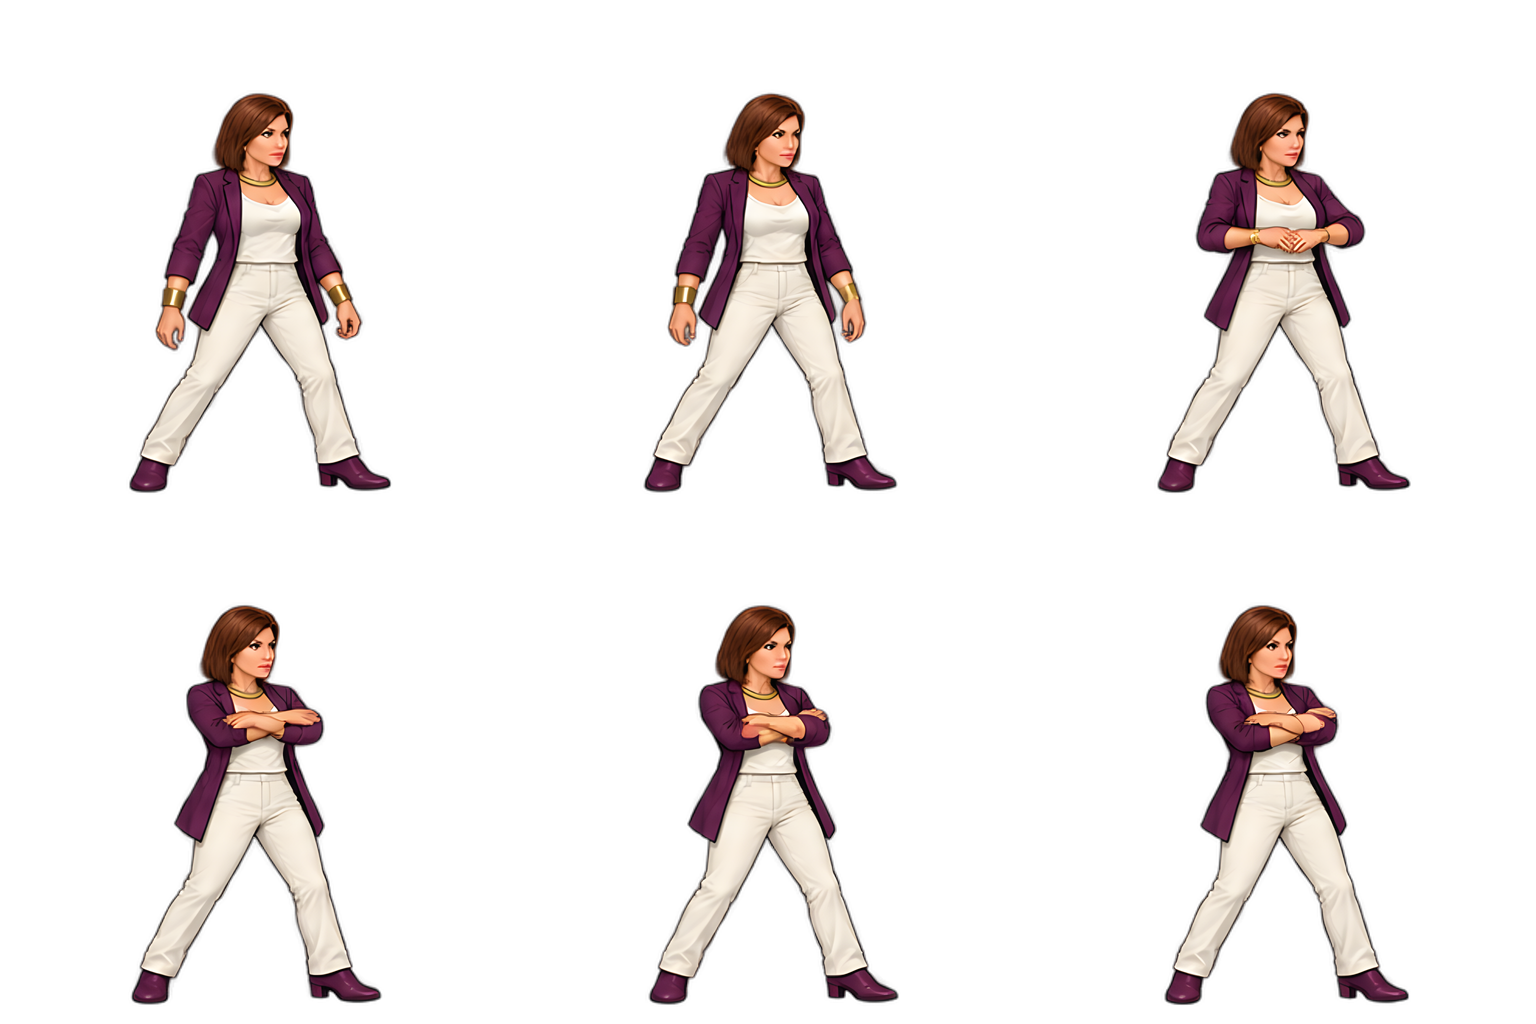
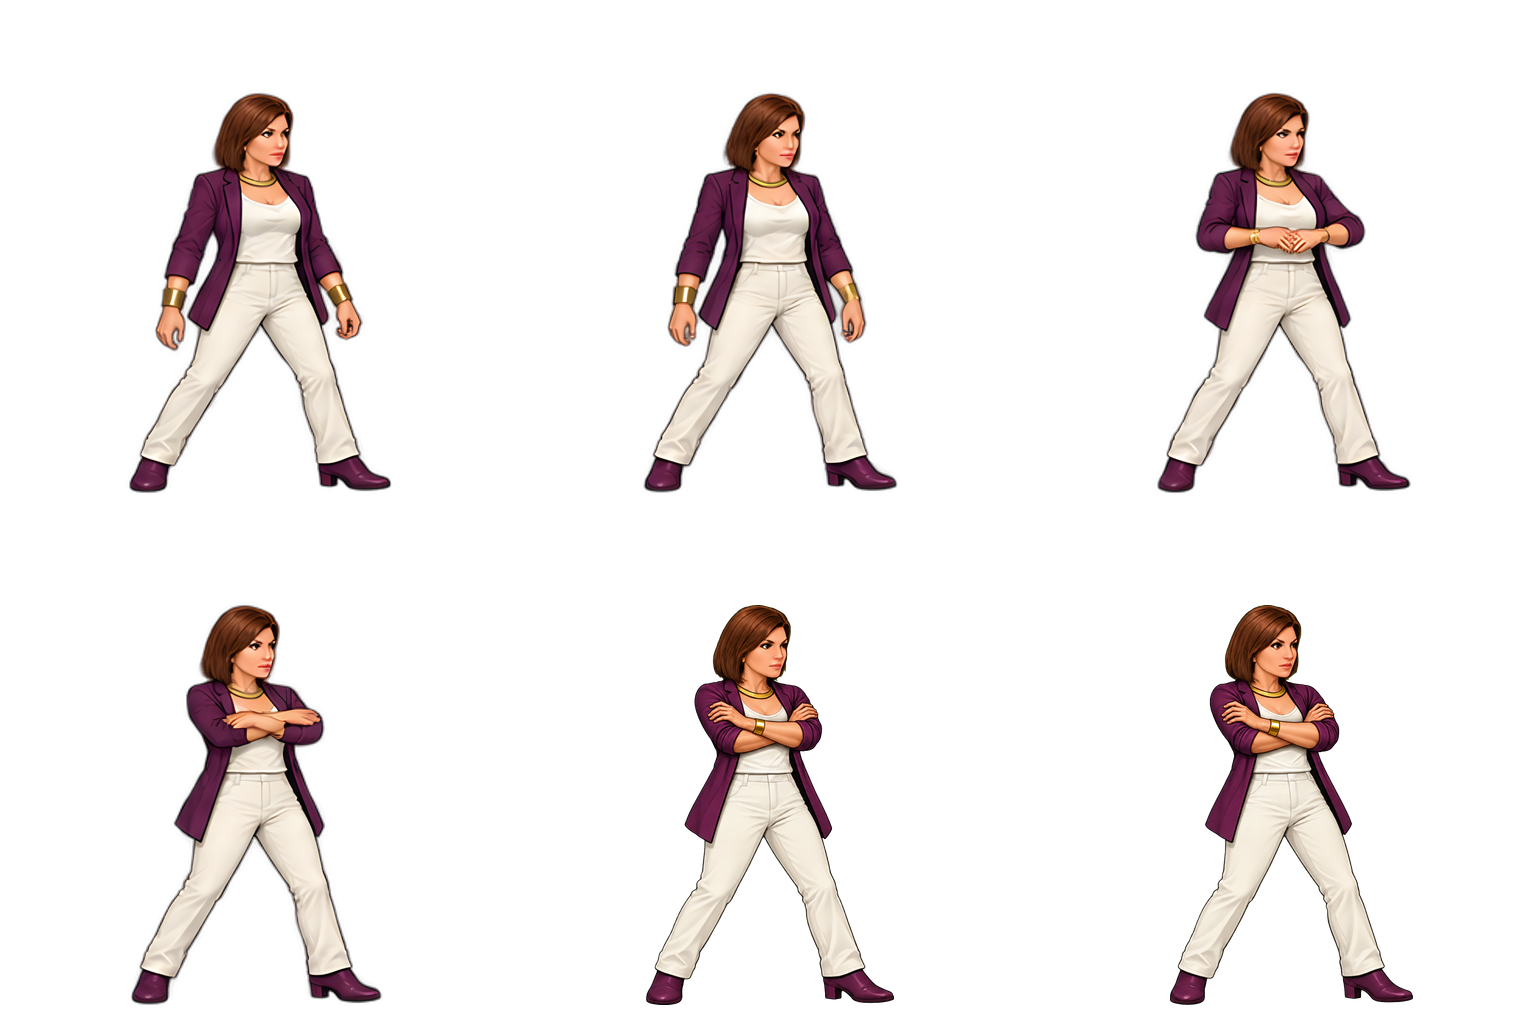
art(entrance): repaint Amanda's crossed-arms hold with clean hands
Her frames 4 and 5 had hands melting into the forearms. Replace them with a
crossed-arms pose generated by Codex (gpt-6.1-sol) on a green screen,
keyed with full despill, scaled to her body height and aligned to frame 3's
feet and head so she does not jump. Frames 0-3 are byte-identical; the
manifest geometry for 4 and 5 is updated, and her frame workaround is
removed so the full fold-and-hold plays again.

Refs #77

Changed region(s): [[0.4062, 0.5938, 0.5938, 1.0], [0.75, 0.5938, 0.9062, 1.0]]

diff --git a/src/game/choreography/entrance-actions.ts b/src/game/choreography/entrance-actions.ts
@@ -86,7 +86,6 @@ export const DEFAULT_ENTRANCE_ACTION: EntranceAction = {
 const DEFAULT_FRAME_SUBSTITUTES: Partial<
   Record<(typeof DEFAULT_ENTRANCE_FIGHTERS)[number], Record<number, number>>
 > = {
-  amanda: { 4: 3, 5: 3 },
   gabriela: { 4: 3 },
   norkys: { 3: 4 },
   rummy: { 4: 3 },
